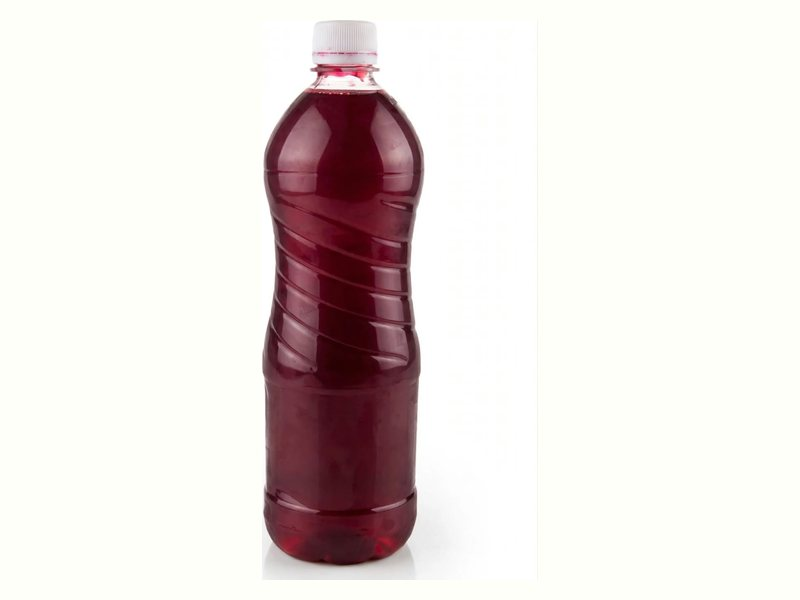
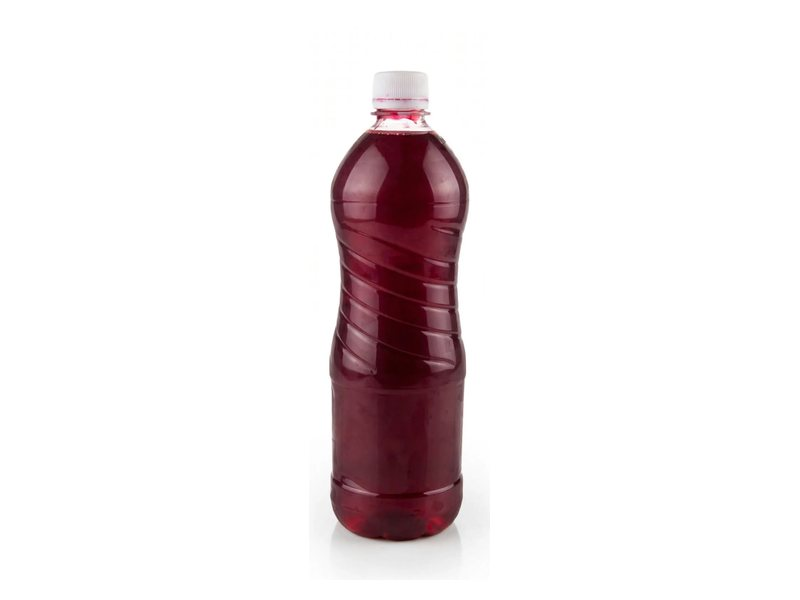
Centre the beetroot juice photo

Changed region(s): [[0.3125, 0.03, 0.5938, 0.99]]

diff --git a/tools/ownphotos.py b/tools/ownphotos.py
@@ -30,7 +30,7 @@ TILES = [
  ('coriander',                     39, (0,0,1,1),       'trim'),
  ('onions-white',                  40, (0,0,1,1),       'fill@0.4'),
  ('maize-green-soft',              41, (0,0,1,1),       'fill'),
- ('beetroot-juice',                42, (0,0,1,1),       'trim'),
+ ('beetroot-juice',                42, (0.2,0.01,0.76,0.99), 'fit-exact'),
 ]
 for slug, n, (l,t,r,b), mode in TILES:
     if ONLY and slug not in ONLY: continue
